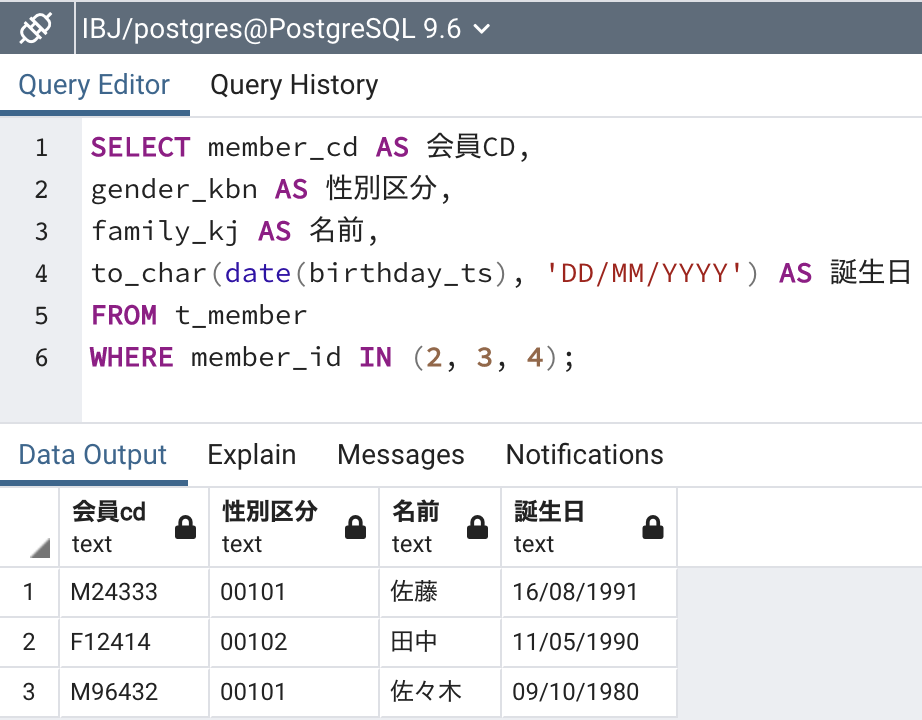
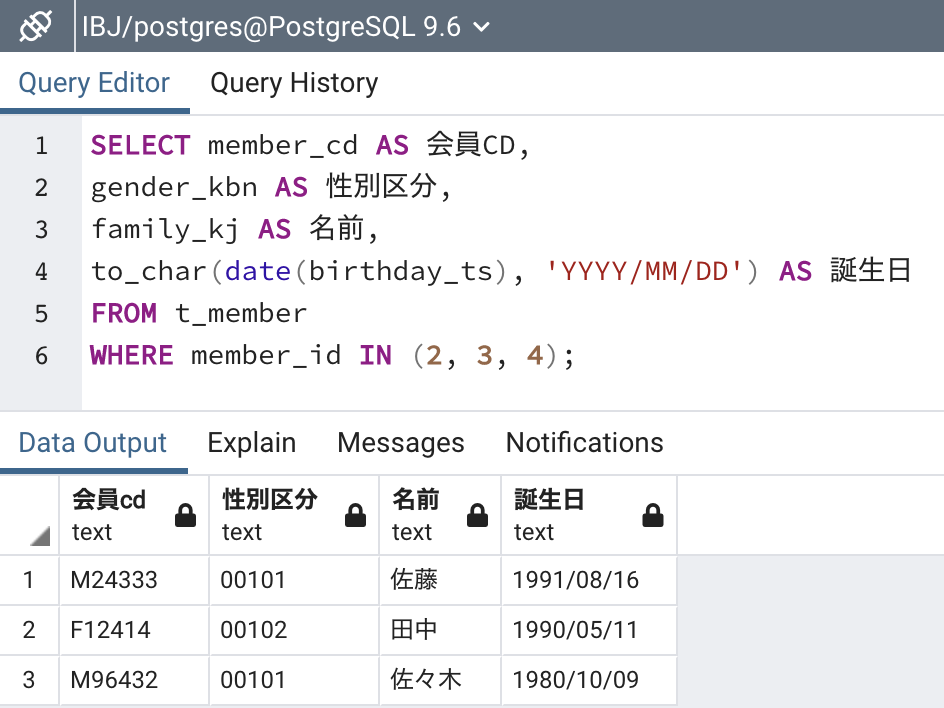
Fixed Date format

diff --git a/README.md b/README.md
@@ -1,38 +1,21 @@
 # パーティーデータベース
-PostgreSQLタスク 
 
+PostgreSQLとストアドとsequelのタスク
 
-タスクを完了するための手順
-----------------------
+データベースを準備する手順
+---------------------
 
 以下を完了するには次の「.sql」を実行してください：
 
-1.	データベースを作成する:
- 「database（データベース）創造.sql」
+1. データベースを作成する: Party_DB/1_SQL/Queries/20210805_Database_Creation.sql
 
-2.	パーティーテーブルを作成する: 
-「t_party（パーティーテーブル）創造.sql」
+2. テーブルを作成する: Party_DB/1_SQL/Queries/20210805_Table_Creation.sql
 
-3.	会場テーブルを作成する:
-「t_place（会場テーブル）創造.sql」
+3. テーブルにデータを追加する: Party_DB/1_SQL/Queries/20210805_Data_Insertion.sql
 
-4.	パーティー参加者テーブルを作成する:
-「t_party_member（パーティー参加者テーブル）創造.sql」
+   スクリーンショットが添付されており、スキーマと内容が示されています。
 
-5.	会員テーブルを作成する:
-「t_member（会員テーブル）創造.sql」
+SQL問題クエリ
+-----------
 
-6.	パーティーテーブルにデータを追加する:
-「t_party（パーティーテーブル）データの追加.sql」
-
-7.	会場テーブルにデータを追加する:
-「t_place（会場テーブル）データの追加.sql」
-
-8.	パーティー参加者テーブルにデータを追加する:
-「t_party_member（パーティー参加者テーブル）データの追加.sql」
-
-9.	会員テーブルにデータを追加する:
-「t_member（会員テーブル）データの追加.sql」
-
-スクリーンショットが添付されており、スキーマと内容が示されています。
-
+Party_DB/1_SQL/Queries/でSQLクエリを見つけます。
